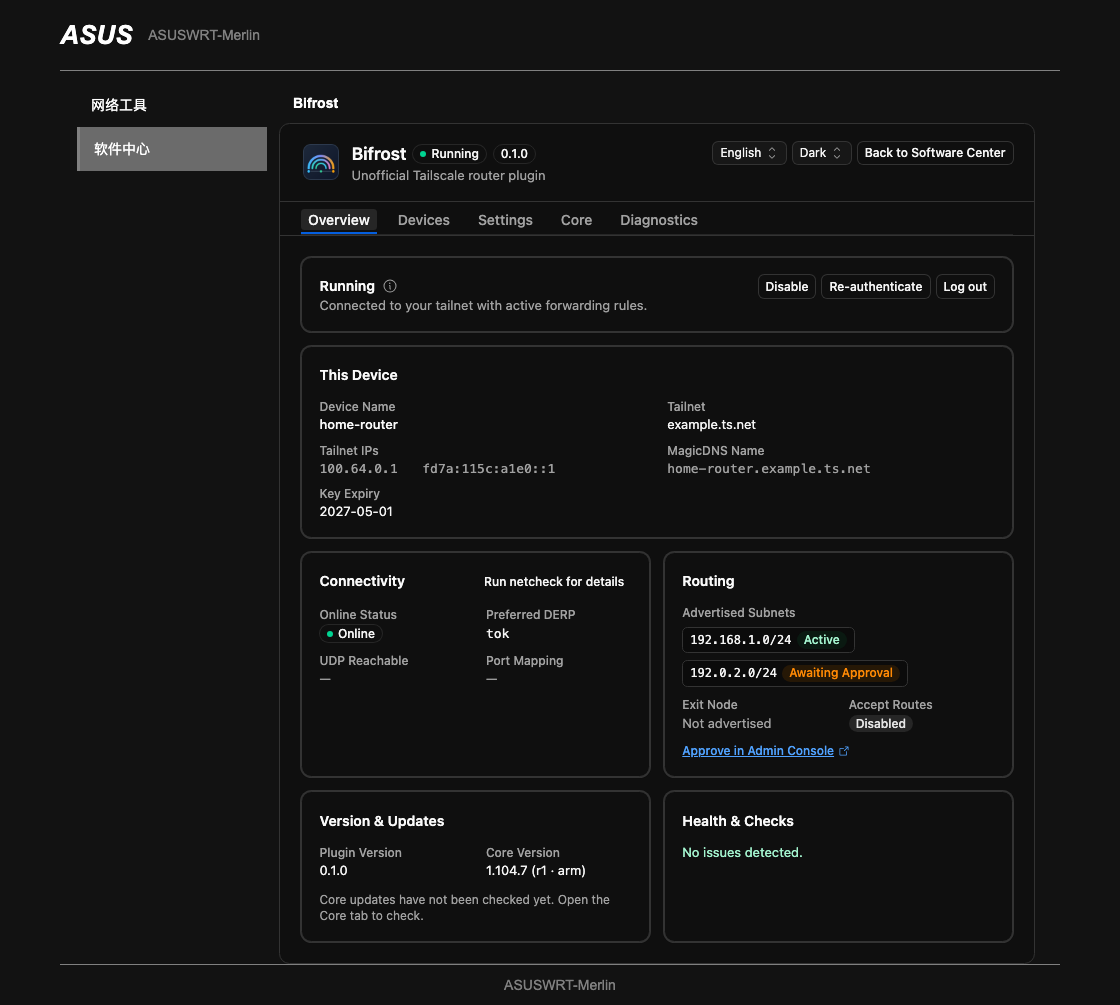
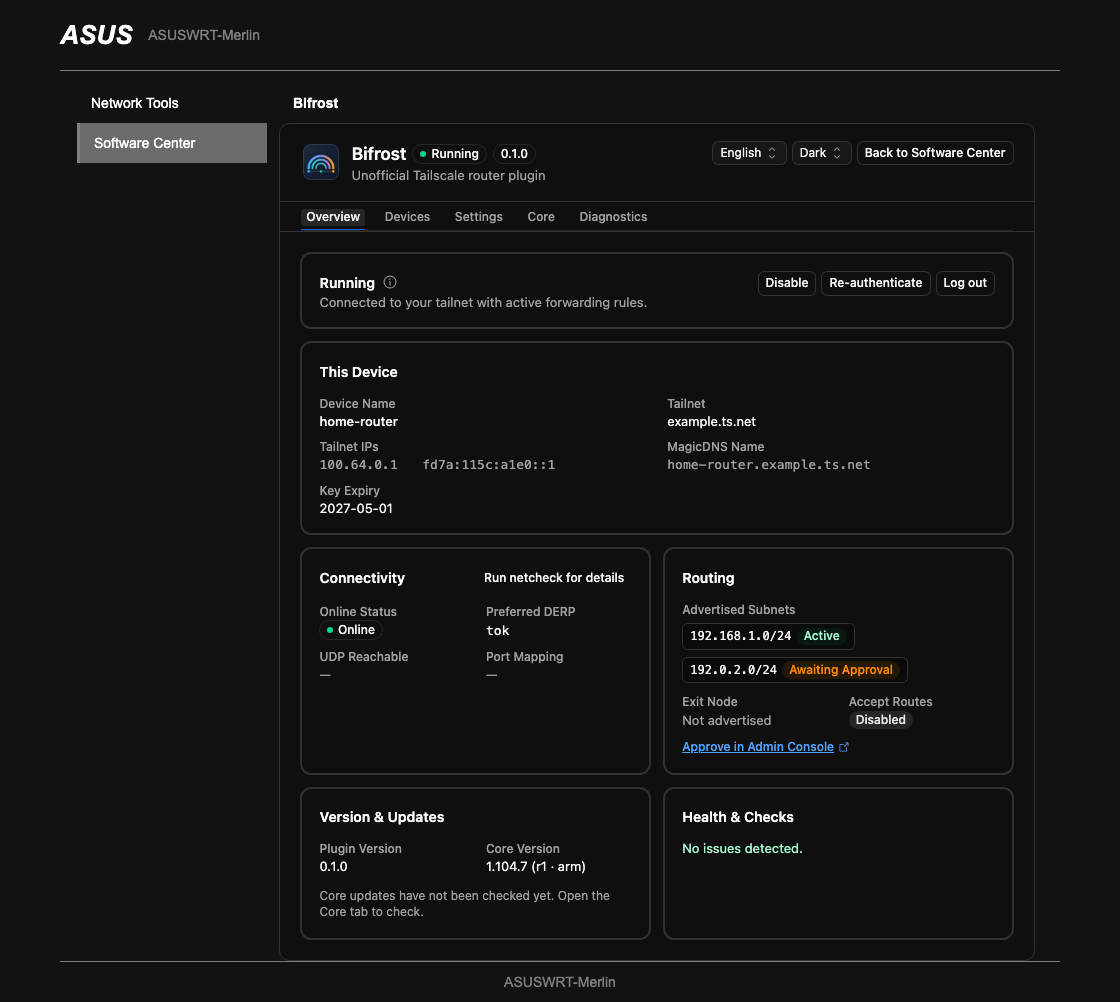
Add complete English documentation screenshots

diff --git a/web/src/pages/DevicesPage.tsx b/web/src/pages/DevicesPage.tsx
@@ -21,7 +21,7 @@ interface RowPingState {
 }
 
 export function DevicesPage() {
-  const { status, t, tError, initializing } = useApp();
+  const { lang, status, t, tError, initializing } = useApp();
   const [filter, setFilter] = useState("");
   const [pings, setPings] = useState<Record<string, RowPingState>>({});
 
@@ -44,6 +44,8 @@ export function DevicesPage() {
   const visible = filtered.slice(0, MAX_RENDERED_PEERS);
   const truncated = filtered.length > MAX_RENDERED_PEERS;
   const nowSec = status?.time ?? Math.floor(Date.now() / 1000);
+  const tableCellClass = lang === "en" ? "!px-1.5 !py-1.5" : "px-2.5 py-2";
+  const tableHeadClass = `${tableCellClass} whitespace-nowrap${lang === "en" ? " !text-xs" : ""}`;
 
   function renderPath(path: PeerInfo["path"], relay: string) {
     if (path === "direct") return t("devices.path.direct");
@@ -109,15 +111,15 @@ export function DevicesPage() {
             <Table className="text-xs">
               <Table.Header>
                 <Table.Row>
-                  <Table.Head className="px-2.5 py-2 whitespace-nowrap">{t("devices.col.name")}</Table.Head>
-                  <Table.Head className="px-2.5 py-2 whitespace-nowrap">{t("devices.col.ip")}</Table.Head>
-                  <Table.Head className="px-2.5 py-2 whitespace-nowrap">{t("devices.col.os")}</Table.Head>
-                  <Table.Head className="px-2.5 py-2 whitespace-nowrap">{t("devices.col.status")}</Table.Head>
-                  <Table.Head className="px-2.5 py-2 whitespace-nowrap">{t("devices.col.path")}</Table.Head>
-                  <Table.Head className="px-2.5 py-2 whitespace-nowrap">{t("devices.col.handshake")}</Table.Head>
-                  <Table.Head className="px-2.5 py-2 whitespace-nowrap">{t("devices.col.traffic")}</Table.Head>
-                  <Table.Head className="px-2.5 py-2 whitespace-nowrap">{t("devices.col.routes")}</Table.Head>
-                  <Table.Head className="px-2.5 py-2 whitespace-nowrap" sticky="right">
+                  <Table.Head className={tableHeadClass}>{t("devices.col.name")}</Table.Head>
+                  <Table.Head className={tableHeadClass}>{t("devices.col.ip")}</Table.Head>
+                  <Table.Head className={tableHeadClass}>{t("devices.col.os")}</Table.Head>
+                  <Table.Head className={tableHeadClass}>{t("devices.col.status")}</Table.Head>
+                  <Table.Head className={tableHeadClass}>{t("devices.col.path")}</Table.Head>
+                  <Table.Head className={tableHeadClass}>{t("devices.col.handshake")}</Table.Head>
+                  <Table.Head className={tableHeadClass}>{t("devices.col.traffic")}</Table.Head>
+                  <Table.Head className={tableHeadClass}>{t("devices.col.routes")}</Table.Head>
+                  <Table.Head className={tableHeadClass} sticky="right">
                     {t("devices.col.action")}
                   </Table.Head>
                 </Table.Row>
@@ -127,7 +129,7 @@ export function DevicesPage() {
                   const ping = pings[peer.ip];
                   return (
                     <Table.Row key={peer.ip} className="group">
-                      <Table.Cell className="px-2.5 py-2">
+                      <Table.Cell className={tableCellClass}>
                         <div className="grid min-w-0 gap-0.5">
                           <span data-raw-value="true" className="font-medium text-kumo-strong">
                             {peer.name}
@@ -142,38 +144,38 @@ export function DevicesPage() {
                           )}
                         </div>
                       </Table.Cell>
-                      <Table.Cell className="px-2.5 py-2 whitespace-nowrap">
+                      <Table.Cell className={`${tableCellClass} whitespace-nowrap`}>
                         <CopyInline value={peer.ip} />
                       </Table.Cell>
-                      <Table.Cell className="px-2.5 py-2 whitespace-nowrap">
+                      <Table.Cell className={`${tableCellClass} whitespace-nowrap`}>
                         <span data-raw-value="true">{peer.os || "—"}</span>
                       </Table.Cell>
-                      <Table.Cell className="px-2.5 py-2 whitespace-nowrap">
+                      <Table.Cell className={`${tableCellClass} whitespace-nowrap`}>
                         <Badge appearance="dot" variant={peer.online ? "success" : "secondary"}>
                           {peer.online ? t("devices.status.online") : t("devices.status.offline")}
                         </Badge>
                       </Table.Cell>
-                      <Table.Cell className="px-2.5 py-2 whitespace-nowrap">
+                      <Table.Cell className={`${tableCellClass} whitespace-nowrap`}>
                         <Badge variant={peer.path === "direct" ? "info" : "outline"}>
                           {renderPath(peer.path, peer.relay)}
                         </Badge>
                       </Table.Cell>
-                      <Table.Cell className="px-2.5 py-2 whitespace-nowrap tabular-nums">
+                      <Table.Cell className={`${tableCellClass} whitespace-nowrap tabular-nums`}>
                         {formatHandshakeAge(peer.last_handshake, nowSec, t)}
                       </Table.Cell>
-                      <Table.Cell className="px-2.5 py-2 whitespace-nowrap tabular-nums">
+                      <Table.Cell className={`${tableCellClass} whitespace-nowrap tabular-nums`}>
                         <div className="grid leading-tight">
                           <span>↓ {formatBytes(peer.rx)}</span>
                           <span className="text-kumo-subtle">↑ {formatBytes(peer.tx)}</span>
                         </div>
                       </Table.Cell>
-                      <Table.Cell className="px-2.5 py-2">
+                      <Table.Cell className={`${tableCellClass}${lang === "en" ? " text-[10px]" : ""}`}>
                         <div className="flex flex-wrap gap-1">
                           {peer.exit_node_option && (
                             <Badge variant="info">{t("devices.exitNodeBadge")}</Badge>
                           )}
                           {peer.routes.map((cidr) => (
-                            <Badge key={cidr} variant="outline">
+                            <Badge key={cidr} variant="outline" className={lang === "en" ? "!px-0 text-[9px]" : undefined}>
                               {cidr}
                             </Badge>
                           ))}
@@ -182,7 +184,7 @@ export function DevicesPage() {
                           )}
                         </div>
                       </Table.Cell>
-                      <Table.Cell className="px-2.5 py-2" sticky="right">
+                      <Table.Cell className={tableCellClass} sticky="right">
                         <div className="grid gap-1">
                           <Button
                             size="sm"

diff --git a/web/preview/shell.js b/web/preview/shell.js
@@ -5,9 +5,10 @@ var tabtitle = [[]];
 var tablink = [[]];
 function show_menu(hook) {
   hook();
+  var english = new URLSearchParams(location.search).get("preview_shell_lang") === "en";
   document.getElementById("TopBanner").innerHTML = "<b>ASUS</b><span>ASUSWRT-Merlin</span>";
-  document.getElementById("mainMenu").textContent = "网络工具";
-  document.getElementById("subMenu").textContent = "软件中心";
+  document.getElementById("mainMenu").textContent = english ? "Network Tools" : "网络工具";
+  document.getElementById("subMenu").textContent = english ? "Software Center" : "软件中心";
   document.getElementById("tabMenu").textContent = tabtitle.at(-1)[1];
   document.getElementById("footer").textContent = "ASUSWRT-Merlin";
   // The firmware's state.js wraps everything beside #tabMenu in a new div after

diff --git a/web/src/i18n/en.ts b/web/src/i18n/en.ts
@@ -184,10 +184,10 @@ export const en: Record<MessageKey, string> = {
   "devices.col.ip": "Tailnet IP",
   "devices.col.os": "OS",
   "devices.col.status": "Status",
-  "devices.col.path": "Connection",
-  "devices.col.handshake": "Last Handshake",
-  "devices.col.traffic": "Traffic (Rx / Tx)",
-  "devices.col.routes": "Exit / Routes",
+  "devices.col.path": "Path",
+  "devices.col.handshake": "Handshake",
+  "devices.col.traffic": "Rx / Tx",
+  "devices.col.routes": "Routes",
   "devices.col.action": "Action",
   "devices.status.online": "Online",
   "devices.status.offline": "Offline",

diff --git a/web/src/app/App.tsx b/web/src/app/App.tsx
@@ -142,6 +142,7 @@ function AppShell() {
       <div className="border-b border-kumo-line px-4 pt-2 @md:px-6">
         <Tabs
           variant="underline"
+          size={lang === "en" ? "sm" : "base"}
           tabs={tabItems}
           value={tab}
           onValueChange={(v) => setTab(v as TabId)}

diff --git a/README.en.md b/README.en.md
@@ -19,19 +19,19 @@ English | [简体中文](README.md)
 
 | Overview (Dark) | Overview (Light) |
 |---|---|
-| ![Overview (Dark)](docs/images/overview.png) | ![Overview (Light)](docs/images/overview-light.png) |
+| ![Overview (Dark)](docs/images/overview-en.png) | ![Overview (Light)](docs/images/overview-light-en.png) |
 
 | Devices | Settings |
 |---|---|
-| ![Devices](docs/images/devices.png) | ![Settings](docs/images/settings.png) |
+| ![Devices](docs/images/devices-en.png) | ![Settings](docs/images/settings-en.png) |
 
 | Core | Diagnostics |
 |---|---|
-| ![Core](docs/images/core.png) | ![Diagnostics](docs/images/diagnostics.png) |
+| ![Core](docs/images/core-en.png) | ![Diagnostics](docs/images/diagnostics-en.png) |
 
 | English UI | Narrow Viewport (420 px) |
 |---|---|
-| ![English UI](docs/images/overview-en.png) | ![Narrow Viewport](docs/images/narrow.png) |
+| ![English UI](docs/images/overview-en.png) | ![Narrow Viewport](docs/images/narrow-en.png) |
 
 > [!NOTE]
 > Developed for the `ASUSWRT` firmware skin. The `ROG`, `TUF`, and `TS` skins have not been tested on physical hardware; because the UI renders inside a Shadow DOM, its styling is isolated from firmware skins.
